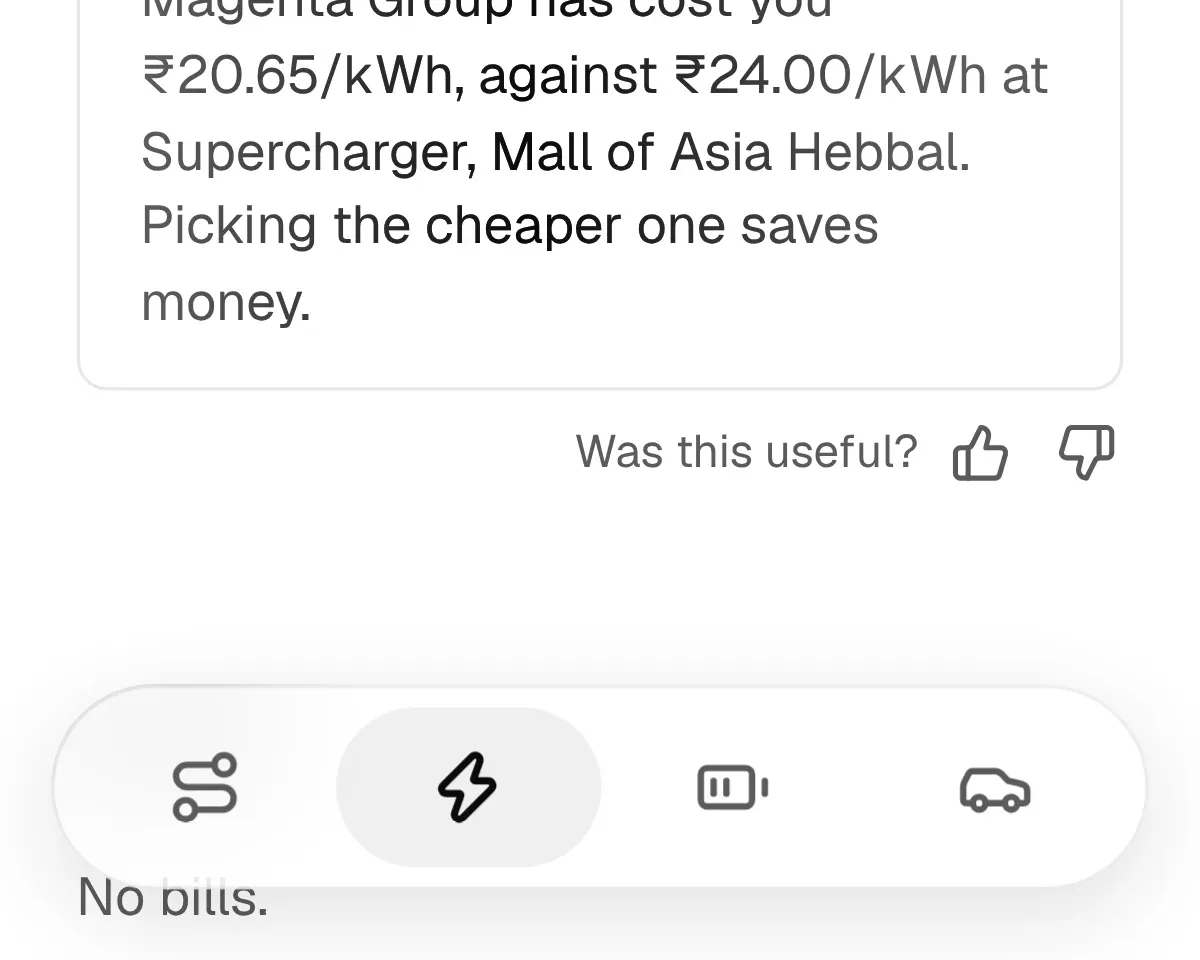
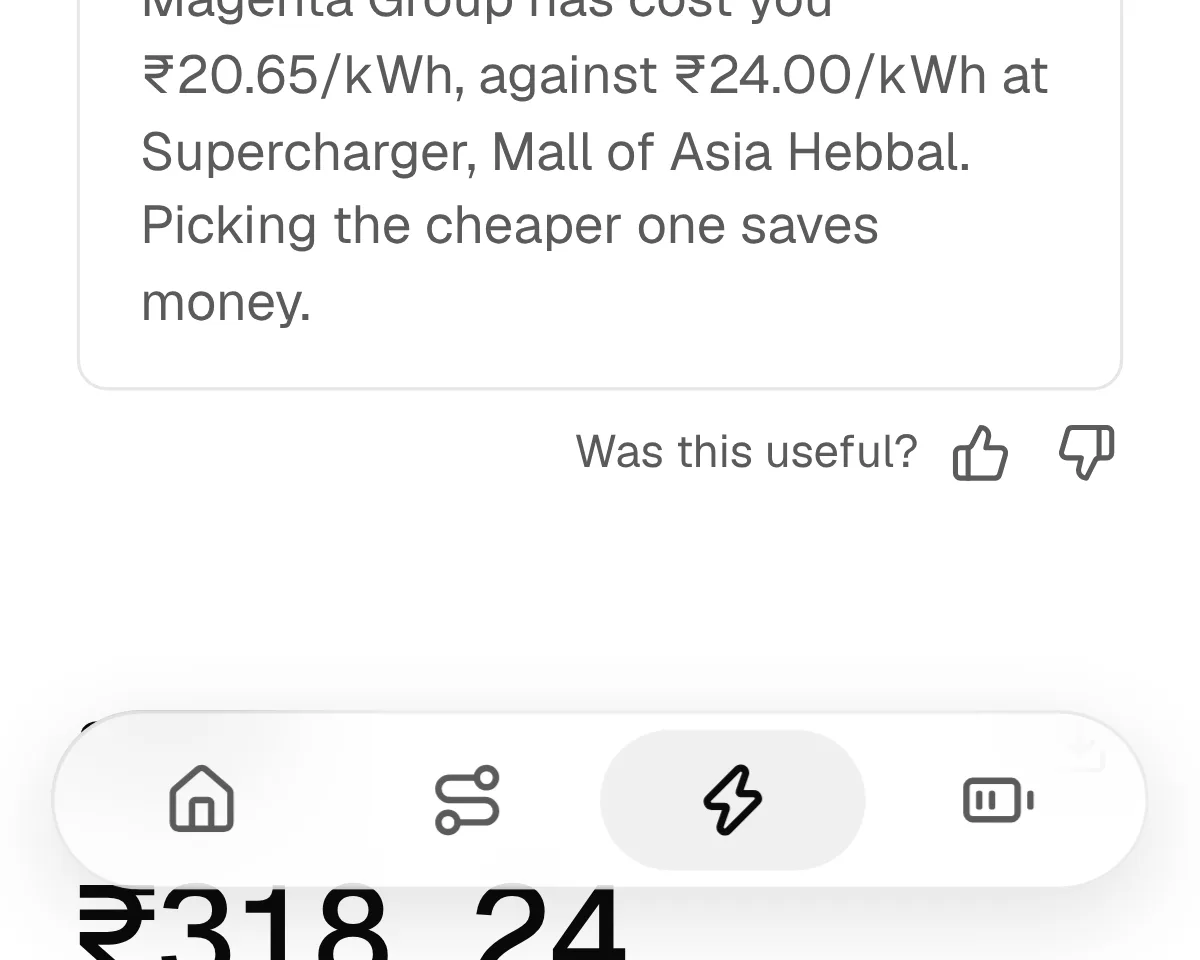
Phone pill: Home, Driving, Charging, Battery; Car in the header row (#105)
On a phone the pill now holds Home, Driving, Charging and Battery (Home was
missing), and Car is a text link in the header row by the bell, marked on
Car, Software and Compare (the pill's chip fades out there). Home marks its
pill icon. Desktop is unchanged: Driving, Charging, Battery and Car in the
header, the logo the way home. Fits at 320px with no sideways scroll;
layout shift 0. Launch checklist, verify notes and the draft entry (text,
alt and a new phone screenshot) follow.

Claude-Session: https://claude.ai/code/session_01Y6B7tPWteV8FVREUYMfgjp

diff --git a/components/header-links.tsx b/components/header-links.tsx
@@ -1,6 +1,6 @@
 "use client";
 
-import { BatteryMedium, Car, type LucideIcon, Route, Zap } from "lucide-react";
+import { BatteryMedium, House, type LucideIcon, Route, Zap } from "lucide-react";
 import Link from "next/link";
 import { usePathname, useSearchParams } from "next/navigation";
 import { startTransition, useEffect, useOptimistic, useRef, useState, ViewTransition } from "react";
@@ -8,17 +8,20 @@ import { type HomePeriod, statsHref, urlRange, type View, viewPeriods, VIEWS, ty
 import { BAR_START, nextBar } from "@/lib/tab-bar";
 import { cn } from "@/lib/utils";
 
-// The page links: Driving, Charging and Battery (the Stats pages), then Car. From sm up they sit in the
-// header (HeaderLinks); on a phone they are a pill floating at the bottom (PhoneNavLinks). `current` marks the
-// page's own link.
-export type Section = View | "car" | "settings";
+// The page links. From sm up the header has Driving, Charging, Battery and Car (HeaderLinks; the logo is the
+// way home). On a phone a pill floats at the bottom with Home, Driving, Charging and Battery (PhoneNavLinks),
+// and Car sits in the header row by the bell (PhoneCarLink). `current` marks the page's own link.
+export type Section = View | "home" | "car" | "settings";
 
-type Page = { key: View | "car"; label: string; icon: LucideIcon };
+type Key = View | "home" | "car";
+type Page = { key: Key; label: string; icon?: LucideIcon };
 
 const ICONS: Record<View, LucideIcon> = { driving: Route, charging: Zap, battery: BatteryMedium };
-const PAGES: Page[] = [...VIEWS.map(({ value, label }) => ({ key: value, label, icon: ICONS[value] })), { key: "car", label: "Car", icon: Car }];
+const VIEW_PAGES: Page[] = VIEWS.map(({ value, label }) => ({ key: value, label, icon: ICONS[value] }));
+const HEADER_PAGES: Page[] = [...VIEW_PAGES, { key: "car", label: "Car" }];
+const PILL_PAGES: Page[] = [{ key: "home", label: "Home", icon: House }, ...VIEW_PAGES];
 
-type Href = (page: View | "car") => string;
+type Href = (page: Key) => string;
 
 // Between Stats pages the period picked carries over (Custom with its dates), read from the URL the period
 // switch keeps. With none picked, or from any other page, each opens on Week, as every Stats page does.
@@ -36,7 +39,7 @@ function useHref(): Href {
 const SHELL_HREF = hrefs(null, null);
 
 function hrefs(period: HomePeriod | null, range: DateRange | null): Href {
-  return (page) => (page === "car" ? "/car" : statsHref(page, period ?? viewPeriods(page).opensOn, range));
+  return (page) => (page === "home" ? "/" : page === "car" ? "/car" : statsHref(page, period ?? viewPeriods(page).opensOn, range));
 }
 
 // ---- From sm up: in the header ----
@@ -57,7 +60,7 @@ export function HeaderLinksShell({ current }: { current?: Section }) {
 // on a phone, the tab bar's from sm up) costs nothing.
 function Links({ current, href }: { current?: Section; href: Href }) {
   const [shown, setShown] = useOptimistic(current);
-  return PAGES.map(({ key, label }) => (
+  return HEADER_PAGES.map(({ key, label }) => (
     <Link
       key={key}
       href={href(key)}
@@ -71,7 +74,22 @@ function Links({ current, href }: { current?: Section; href: Href }) {
   ));
 }
 
-// ---- On a phone: a floating pill at the bottom ----
+// ---- On a phone: Car in the header row, the rest in a floating pill at the bottom ----
+
+// Car, in the header row by the bell on a phone (the pill holds Home and the Stats pages). Hidden from sm up,
+// where Car is one of the header's page links.
+export function PhoneCarLink({ current }: { current?: Section }) {
+  return (
+    <Link
+      href="/car"
+      prefetch={true}
+      aria-current={current === "car" ? "page" : undefined}
+      className={cn("tap-target hover:text-foreground sm:hidden", current === "car" && "text-foreground")}
+    >
+      Car
+    </Link>
+  );
+}
 
 // Four icons in a glass pill floating above the bottom edge, clear of the iPhone's home bar: Driving,
 // Charging, Battery and Car, each named for screen readers. The current page's icon sits on a light chip,
@@ -119,7 +137,7 @@ function Pill({
   onBlur?: (e: React.FocusEvent<HTMLElement>) => void;
 }) {
   const [shown, setShown] = useOptimistic(current);
-  const index = PAGES.findIndex((p) => p.key === shown);
+  const index = PILL_PAGES.findIndex((p) => p.key === shown);
   return (
     <nav
       aria-label="Main"
@@ -147,7 +165,7 @@ function Pill({
               style={{ translate: `${Math.max(index, 0) * 100}% 0` }}
             />
           </ViewTransition>
-          {PAGES.map(({ key, label, icon: Icon }) => (
+          {PILL_PAGES.map(({ key, label, icon: Icon = House }) => (
             <Link
               key={key}
               href={href(key)}

diff --git a/lib/whats-new.ts b/lib/whats-new.ts
@@ -39,9 +39,9 @@ export const WHATS_NEW: Entry[] = [
     id: "2026-11-01-header-menu",
     date: "2026-11-01",
     title: "Every page one tap away",
-    text: "Driving, Charging, Battery and Car are now in the top bar. On a phone they float at the bottom as four icons, which slide away as you scroll down and come back as you scroll up. A period you pick stays as you move between Driving, Charging and Battery.",
+    text: "Driving, Charging, Battery and Car are now in the top bar. On a phone, Home, Driving, Charging and Battery float at the bottom as four icons, and Car sits at the top. The icons slide away as you scroll down and come back as you scroll up.",
     version: "0.2",
-    image: { src: "/whats-new/header-menu.webp", alt: "On a phone, four icons for Driving, Charging, Battery and Car float at the bottom of the Charging page, with Charging picked.", width: 1200, height: 960 },
+    image: { src: "/whats-new/header-menu.webp", alt: "On a phone, four icons for Home, Driving, Charging and Battery float at the bottom of the Charging page, with Charging picked.", width: 1200, height: 960 },
     kind: "Improvement",
     audience: "draft",
     show: "bell",

diff --git a/components/header.tsx b/components/header.tsx
@@ -8,7 +8,7 @@ import { Suspense } from "react";
 import { AvatarBlob } from "@/components/avatar-blob";
 import { FeedbackButton } from "@/components/feedback-button";
 import { FeedbackMenuItem } from "@/components/feedback-menu-item";
-import { HeaderLinks, HeaderLinksShell, PhoneNavLinks, PhoneNavShell, type Section } from "@/components/header-links";
+import { HeaderLinks, HeaderLinksShell, PhoneCarLink, PhoneNavLinks, PhoneNavShell, type Section } from "@/components/header-links";
 import { Logo } from "@/components/logo";
 import { SignOutForm } from "@/components/sign-out-form";
 import { buttonVariants } from "@/components/ui/button";
@@ -274,6 +274,7 @@ export function Header({ current, setup = true, onSetup = false }: { current?: S
             </Suspense>
           </nav>
         )}
+        {!onSetup && <PhoneCarLink current={current} />}
         <Suspense fallback={loadingControls}>
           <OwnerControls>{ownerControls}</OwnerControls>
         </Suspense>

diff --git a/app/page.tsx b/app/page.tsx
@@ -337,7 +337,7 @@ function TotalsSkeleton() {
 export default function Page() {
   return (
     <div className="mx-auto w-full max-w-2xl px-5 pt-6 pb-12 sm:pt-8 sm:pb-20">
-      <Header />
+      <Header current="home" />
       <h1 className="sr-only">Your car</h1>
       <Suspense fallback={<HomeSkeleton />}>
         <HomeContent />
@@ -348,7 +348,7 @@ export default function Page() {
       <Suspense>
         <SyncStreamSessions />
       </Suspense>
-      <PhoneNav />
+      <PhoneNav current="home" />
     </div>
   );
 }

diff --git a/.claude/skills/verify/SKILL.md b/.claude/skills/verify/SKILL.md
@@ -55,7 +55,7 @@ await browser.close();
 ```
 
 Handles that hold in this app:
-- Page tabs and header links: `getByRole("link", { name: "Charging" })`; the page links `"Driving"`, `"Charging"`, `"Battery"`, `"Car"` (scope to `getByRole("navigation", { name: "Main" })`, as pages repeat some names). From sm up that nav is in the header; on a phone it is a pill of four icons floating at the bottom (`[data-phone-nav]`, each link named by `aria-label`), rendered after the page content. It slides away while scrolling down, is back at the top, at the bottom and on scrolling up, and steps aside while a text field has focus. The account menu: `getByRole("button", { name: "Account menu" })`, holding Settings, Rollout (`getByRole("menuitem", { name: "Rollout" })`), Admin and Sign out.
+- Page tabs and header links: `getByRole("link", { name: "Charging" })`; the page links (scope to `getByRole("navigation", { name: "Main" })`, as pages repeat some names). From sm up that nav is in the header: `"Driving"`, `"Charging"`, `"Battery"`, `"Car"`. On a phone it is a pill of four icons floating at the bottom, `"Home"`, `"Driving"`, `"Charging"`, `"Battery"` (`[data-phone-nav]`, each link named by `aria-label`), rendered after the page content, and Car is a text link in the header row by the bell. It slides away while scrolling down, is back at the top, at the bottom and on scrolling up, and steps aside while a text field has focus. The account menu: `getByRole("button", { name: "Account menu" })`, holding Settings, Rollout (`getByRole("menuitem", { name: "Rollout" })`), Admin and Sign out.
 - Period switch: buttons with `aria-pressed`, named `Day`, `Week`, `Month`, `Year`, `All`, `Custom`. Their accessible name repeats the label (`DayDay`), so match with `{ name: /^Week/ }`. Home and every Stats page (Driving, Charging, Battery) open on Week, Updates on Month (see `PAGE_PERIODS` in `components/stats/periods.ts`); any other period adds `?period=<value>`. A bar of a day, a month or a year is a link (`li.group > a`): hover, focus or a first tap shows its tip (`[data-bar-tip]`), which carries a link saying where it goes ("Open drive", "Open charge", "Open 28 Oct's drives", "Open October") (`[data-tip-link]`).
 - Sections: `page.locator("section", { has: page.getByRole("heading", { name: "Trips" }) })`.
 - Whole-row links (trips, legs, charges, sessions): the first `link` inside the row.
